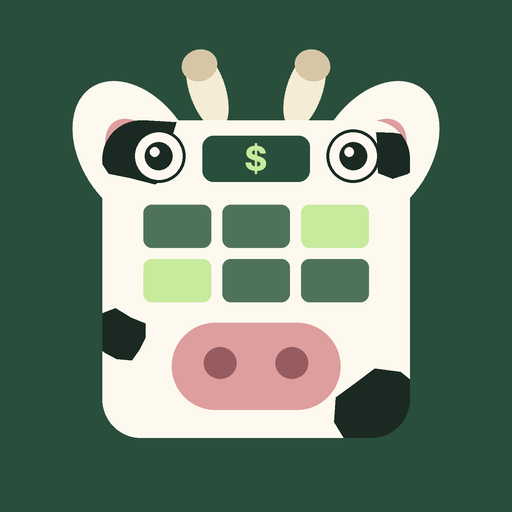
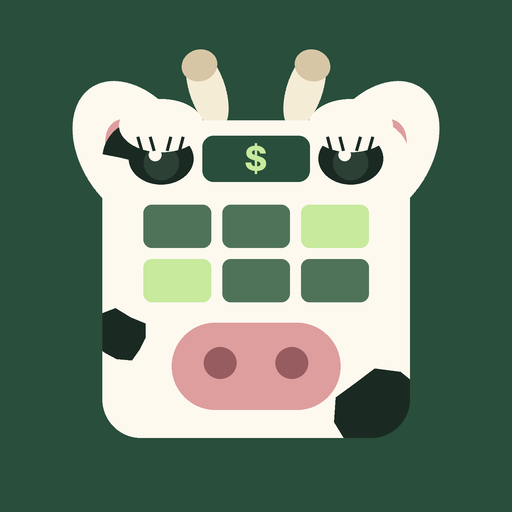
Make the cow's eyes friendlier
Replace the wide round stare with soft almond eyes with a low, calm gaze
and long eyelashes, and move the Holstein spots clear of the eyes. Bump
service worker cache to v69.

Claude-Session: https://claude.ai/code/session_01E9FCDb4GzxdWmLHB3ZkPxm

Changed region(s): [[0.1875, 0.1875, 0.4062, 0.375], [0.5938, 0.1875, 0.8125, 0.375]]

diff --git a/sw.js b/sw.js
@@ -1,4 +1,4 @@
-const CACHE = 'halter-roi-v68';
+const CACHE = 'halter-roi-v69';
 const CORE = [
   '.',
   'index.html',
